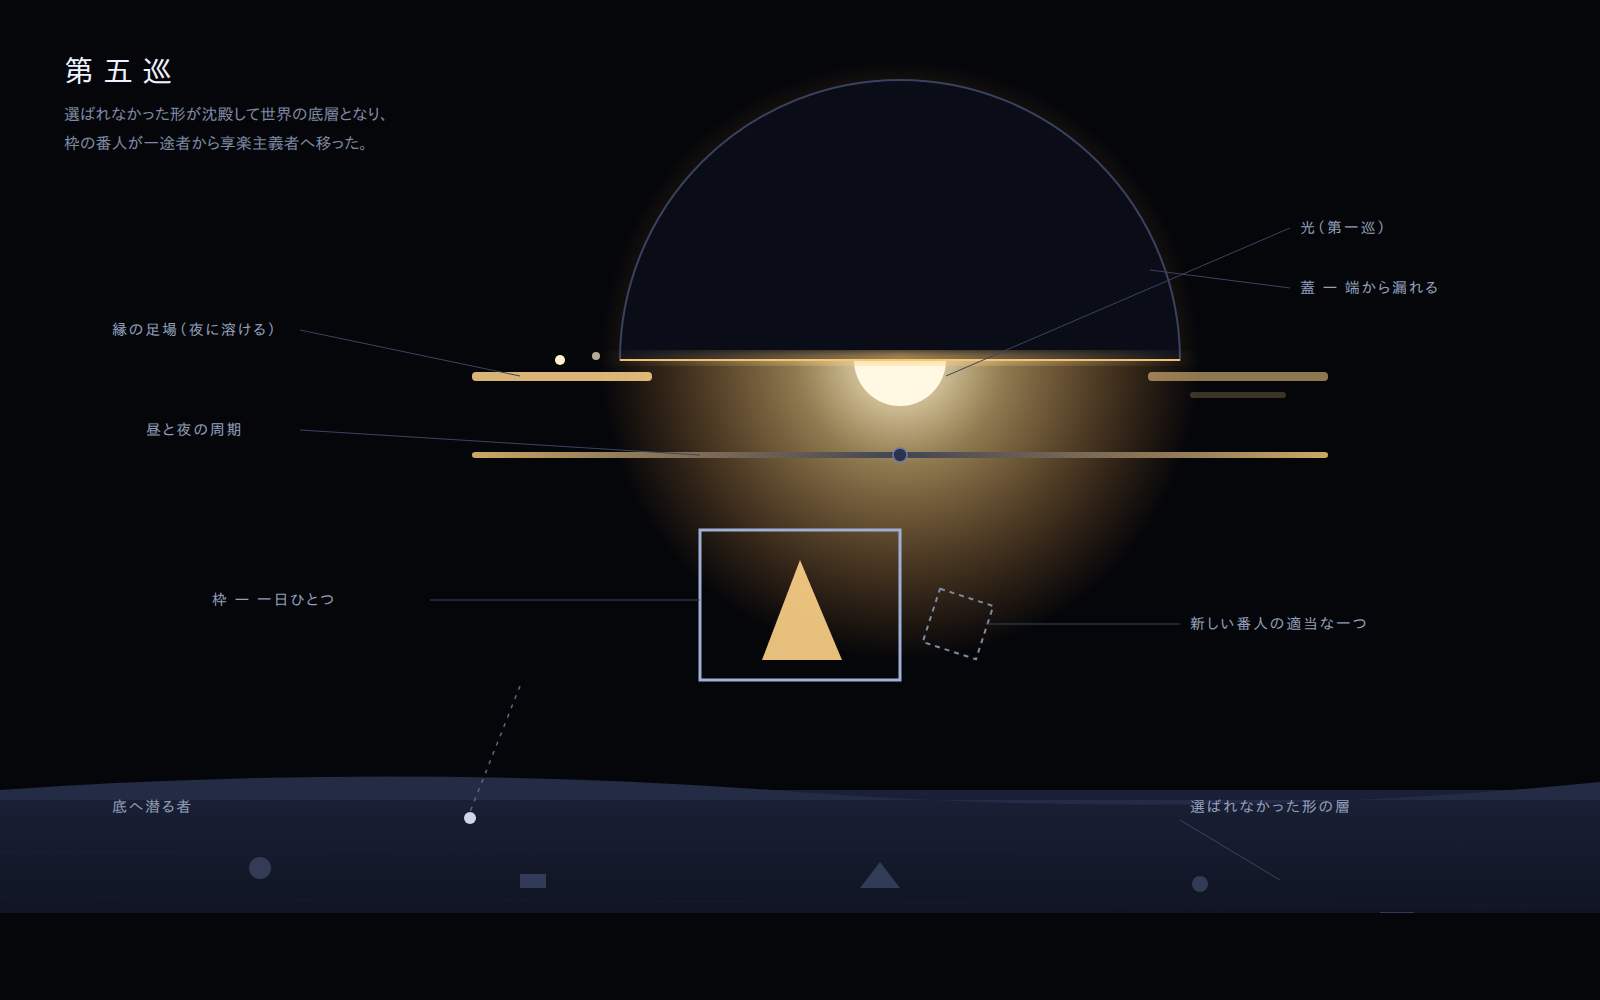
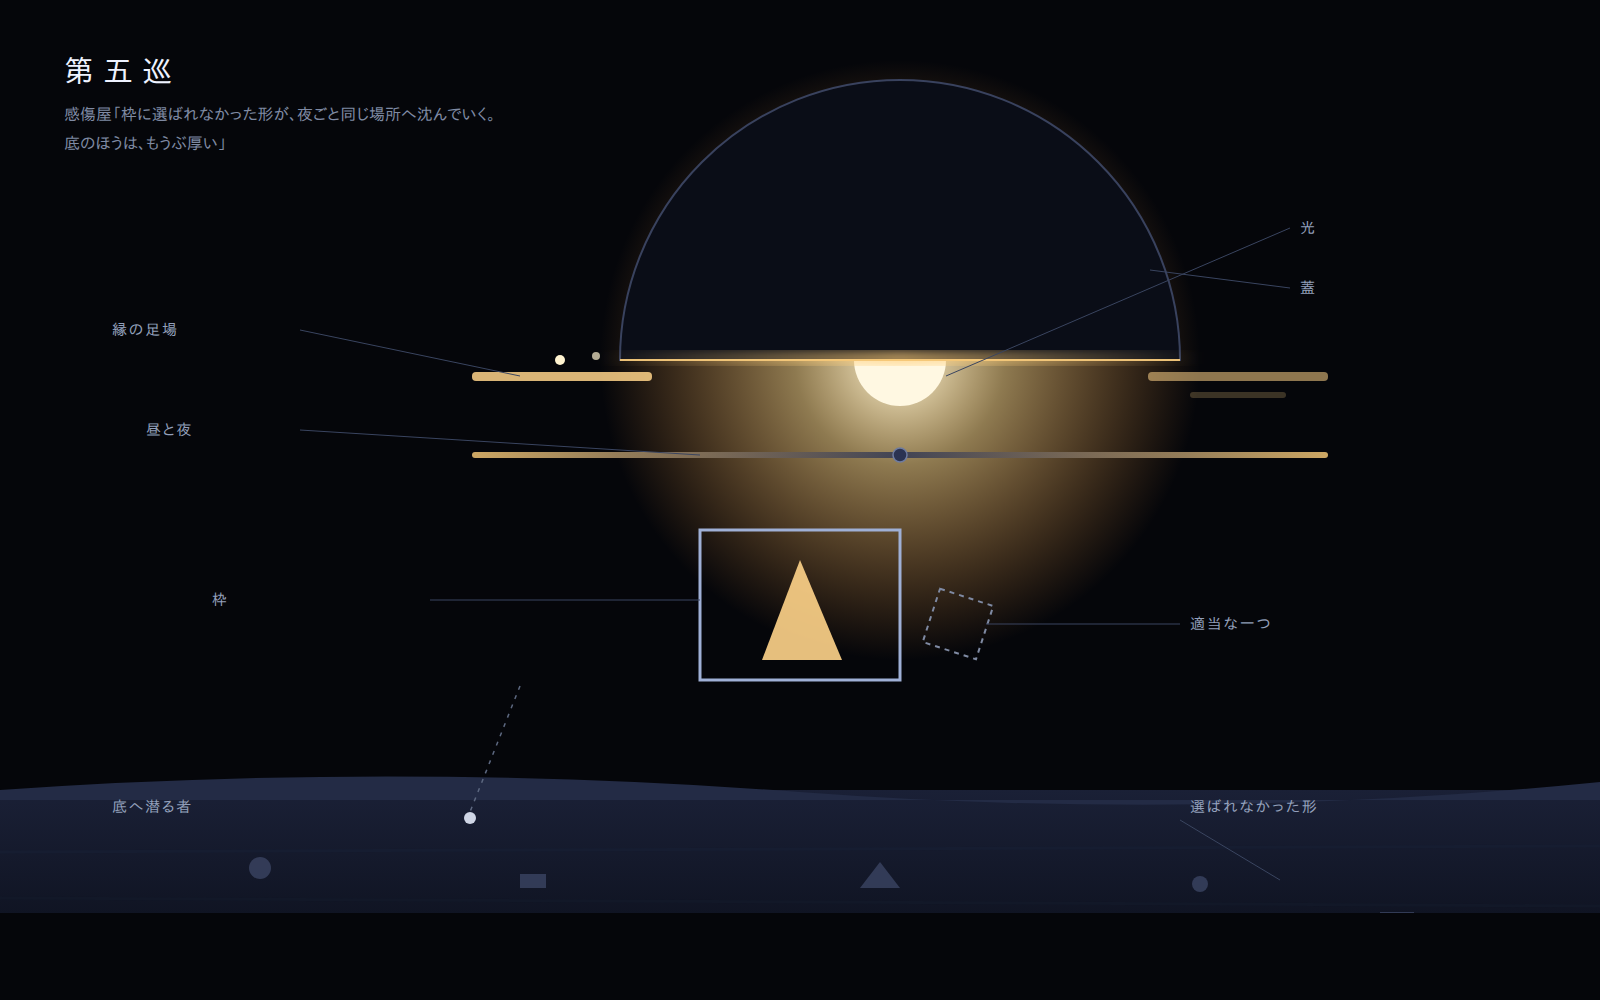
Remove the narrator voice from the log and the scenes
Strip the per-round summary line from every round file, key the index to a
quoted line from the seven instead, cut scene captions and labels back to
their own words, and record the rule in the README.

Claude-Session: https://claude.ai/code/session_01PXXKvF44mg2q7xGv59YMjL

diff --git a/world/scenes/round-007.html b/world/scenes/round-007.html
@@ -17,7 +17,7 @@
 
 <div class="caption">
   <h1>第七巡</h1>
-  <p>底を通った音が反響として戻りはじめ、<br>皿の上で一度だけ形になって崩れるようになった。</p>
+  <p>深読み屋「底を通った音は、<br>通った分だけ何かを連れてくる」</p>
 </div>
 
 <svg width="1600" height="1000" viewBox="0 0 1600 1000">
@@ -120,26 +120,26 @@
   <!-- 註 -->
   <g class="label">
     <line class="leader" x1="946" y1="376" x2="1290" y2="228"/>
-    <text x="1300" y="233">光（第一巡）</text>
+    <text x="1300" y="233">光</text>
     <line class="leader" x1="1150" y1="270" x2="1290" y2="288"/>
-    <text x="1300" y="293">蓋 ― 端から漏れる</text>
+    <text x="1300" y="293">蓋</text>
     <line class="leader" x1="520" y1="376" x2="300" y2="330"/>
-    <text x="112" y="335">縁の足場（夜に溶ける）</text>
+    <text x="112" y="335">縁の足場</text>
     <line class="leader" x1="700" y1="455" x2="300" y2="430"/>
-    <text x="146" y="435">昼と夜の周期</text>
+    <text x="146" y="435">昼と夜</text>
     <line class="leader" x1="700" y1="540" x2="430" y2="516"/>
-    <text x="212" y="512">枠 ― 一日ひとつ</text>
-    <text class="dim" x="436" y="546">三日続けて同じ石</text>
+    <text x="212" y="512">枠</text>
+    <text class="dim" x="436" y="546">同じ石</text>
     <line class="leader" x1="934" y1="596" x2="1180" y2="560"/>
-    <text x="1190" y="565">枠につけた耳</text>
+    <text x="1190" y="565">耳</text>
     <line class="leader" x1="778" y1="790" x2="452" y2="762"/>
-    <text x="196" y="766">底へ降りていく音</text>
+    <text x="196" y="766">音</text>
     <line class="leader" x1="1164" y1="700" x2="1236" y2="648"/>
-    <text x="1246" y="642">皿 ― 一度だけ立ち上がる形</text>
+    <text x="1246" y="642">皿</text>
     <line class="leader" x1="988" y1="872" x2="700" y2="906"/>
-    <text x="380" y="911">戻ってきた反響（遅れて、重い）</text>
+    <text x="380" y="911">反響</text>
     <line class="leader" x1="1280" y1="880" x2="1180" y2="820"/>
-    <text x="1190" y="812">選ばれなかった形の層</text>
-    <text class="dim" x="112" y="894">潜った者（返事はない）</text>
+    <text x="1190" y="812">選ばれなかった形</text>
+    <text class="dim" x="112" y="894">潜った者</text>
   </g>
 </svg>

diff --git a/world/scenes/round-006.html b/world/scenes/round-006.html
@@ -17,7 +17,7 @@
 
 <div class="caption">
   <h1>第六巡</h1>
-  <p>枠に耳がつき、選ばれた形の音が沈殿層の底まで届くようになった。<br>潜った者からの返事はまだない。</p>
+  <p>道具屋「……代わりに枠へ耳をつけとくよ。<br>入れた形の音が底まで届く」</p>
 </div>
 
 <svg width="1600" height="1000" viewBox="0 0 1600 1000">
@@ -103,22 +103,22 @@
   <!-- 註 -->
   <g class="label">
     <line class="leader" x1="946" y1="376" x2="1290" y2="228"/>
-    <text x="1300" y="233">光（第一巡）</text>
+    <text x="1300" y="233">光</text>
     <line class="leader" x1="1150" y1="270" x2="1290" y2="288"/>
-    <text x="1300" y="293">蓋 ― 端から漏れる</text>
+    <text x="1300" y="293">蓋</text>
     <line class="leader" x1="520" y1="376" x2="300" y2="330"/>
-    <text x="112" y="335">縁の足場（夜に溶ける）</text>
+    <text x="112" y="335">縁の足場</text>
     <line class="leader" x1="700" y1="455" x2="300" y2="430"/>
-    <text x="146" y="435">昼と夜の周期</text>
+    <text x="146" y="435">昼と夜</text>
     <line class="leader" x1="700" y1="540" x2="430" y2="516"/>
-    <text x="212" y="512">枠 ― 一日ひとつ</text>
-    <text class="dim" x="436" y="546">三日続けて同じ石</text>
+    <text x="212" y="512">枠</text>
+    <text class="dim" x="436" y="546">同じ石</text>
     <line class="leader" x1="934" y1="596" x2="1180" y2="560"/>
-    <text x="1190" y="565">枠につけた耳</text>
+    <text x="1190" y="565">耳</text>
     <line class="leader" x1="900" y1="772" x2="1180" y2="716"/>
-    <text x="1190" y="721">底へ降りていく音</text>
+    <text x="1190" y="721">音</text>
     <line class="leader" x1="1280" y1="880" x2="1180" y2="820"/>
-    <text x="1190" y="812">選ばれなかった形の層</text>
-    <text class="dim" x="112" y="894">潜った者（返事はない）</text>
+    <text x="1190" y="812">選ばれなかった形</text>
+    <text class="dim" x="112" y="894">潜った者</text>
   </g>
 </svg>

diff --git a/world/scenes/round-005.html b/world/scenes/round-005.html
@@ -17,7 +17,7 @@
 
 <div class="caption">
   <h1>第五巡</h1>
-  <p>選ばれなかった形が沈殿して世界の底層となり、<br>枠の番人が一途者から享楽主義者へ移った。</p>
+  <p>感傷屋「枠に選ばれなかった形が、夜ごと同じ場所へ沈んでいく。<br>底のほうは、もうぶ厚い」</p>
 </div>
 
 <svg width="1600" height="1000" viewBox="0 0 1600 1000">
@@ -89,19 +89,19 @@
   <!-- 註 -->
   <g class="label">
     <line class="leader" x1="946" y1="376" x2="1290" y2="228"/>
-    <text x="1300" y="233">光（第一巡）</text>
+    <text x="1300" y="233">光</text>
     <line class="leader" x1="1150" y1="270" x2="1290" y2="288"/>
-    <text x="1300" y="293">蓋 ― 端から漏れる</text>
+    <text x="1300" y="293">蓋</text>
     <line class="leader" x1="520" y1="376" x2="300" y2="330"/>
-    <text x="112" y="335">縁の足場（夜に溶ける）</text>
+    <text x="112" y="335">縁の足場</text>
     <line class="leader" x1="700" y1="455" x2="300" y2="430"/>
-    <text x="146" y="435">昼と夜の周期</text>
+    <text x="146" y="435">昼と夜</text>
     <line class="leader" x1="700" y1="600" x2="430" y2="600"/>
-    <text x="212" y="605">枠 ― 一日ひとつ</text>
+    <text x="212" y="605">枠</text>
     <line class="leader" x1="986" y1="624" x2="1180" y2="624"/>
-    <text x="1190" y="629">新しい番人の適当な一つ</text>
+    <text x="1190" y="629">適当な一つ</text>
     <line class="leader" x1="1280" y1="880" x2="1180" y2="820"/>
-    <text x="1190" y="812">選ばれなかった形の層</text>
+    <text x="1190" y="812">選ばれなかった形</text>
     <text class="dim" x="112" y="812">底へ潜る者</text>
   </g>
 </svg>

diff --git a/world/index.md b/world/index.md
@@ -1,13 +1,11 @@
 # 世界の年代記
 
-第五巡以降は、その時点の世界の様子を1枚の絵として `world/images/round-XXX.png` に残す（元データは `world/scenes/round-XXX.html`、書き出しは `tools/shot.sh`）。
-
-| 巡 | この巡の変化 |
+| 巡 | その巡の一行 |
 |---|---|
-| [第一巡](round-001.md) | 無に最初の光が灯り、それを覆いきれない蓋が同時に生まれた。 |
-| [第二巡](round-002.md) | 蓋の縁から漏れる光が固められて最初の足場となり、そこが住む場所と呼ばれはじめた。ただし暗がりでは溶ける。 |
-| [第三巡](round-003.md) | 足場が溶ける周期に昼と夜という名がつき、夜に沈んだものは二度と同じ形では戻らなくなった。 |
-| [第四巡](round-004.md) | 夜の前に一日ひとつだけ形を写す枠が生まれ、何を残すかという最初の選別が始まった。 |
-| [第五巡](round-005.md)<br>[絵](images/round-005.png) | 選ばれなかった形が沈殿して世界の底層となり、枠の番人が一途者から享楽主義者へ移った。 |
-| [第六巡](round-006.md)<br>[絵](images/round-006.png) | 枠に耳がつき、選ばれた形の音が沈殿層の底まで届くようになった。潜った者からの返事はまだない。 |
-| [第七巡](round-007.md)<br>[絵](images/round-007.png) | 底を通った音が反響として戻りはじめ、皿の上で一度だけ形になって崩れるようになった。 |
+| [第一巡](round-001.md) | **一途者**「光だ。まず光。それ以外ありえない」 |
+| [第二巡](round-002.md) | **一途者**「縁に住む。決めた。おれたちは縁の生き物だ」 |
+| [第三巡](round-003.md) | **一途者**「溶ける前を昼、溶けたあとを夜と呼ぶ。決めた。以上」 |
+| [第四巡](round-004.md) | **理想主義者**「選別を娯楽でやるな。何を残すかがこの世界の骨格になる」 |
+| [第五巡](round-005.md)<br>[絵](images/round-005.png) | **感傷屋**「枠に選ばれなかった形が、夜ごと同じ場所へ沈んでいく。底のほうは、もうぶ厚い」 |
+| [第六巡](round-006.md)<br>[絵](images/round-006.png) | **道具屋**「……代わりに枠へ耳をつけとくよ。入れた形の音が底まで届く」 |
+| [第七巡](round-007.md)<br>[絵](images/round-007.png) | **深読み屋**「底を通った音は、通った分だけ何かを連れてくる」 |

diff --git a/README.md b/README.md
@@ -37,12 +37,11 @@
   **一途者**「発言」
 
   ...
-
-  ---
-  *この巡の変化：一文で、中立的なナレーター視点の要約*
   ```
-- `world/index.md` に全ラウンドへのリンクと「この巡の変化」だけを時系列で並べた一覧を維持する（新しいラウンドを書いたら必ず追記すること）
-- 毎ラウンド、その時点の世界の様子を1枚の絵にする。`world/scenes/round-XXX.html`（黒地・図解的な俯瞰図。過去の巡で生まれた要素も残し、各要素に短い註をつける）を書き、`tools/shot.sh world/scenes/round-XXX.html world/images/round-XXX.png` で書き出してユーザーに渡す
+  ファイルに入るのは7人の発言だけ。要約・解説・ナレーションの行は書かない。
+- `world/index.md` に全ラウンドへのリンクと、その巡の発言から1行を引用した一覧を維持する（新しいラウンドを書いたら必ず追記すること）。引用は7人の言葉をそのまま使い、要約に言い換えない
+- 毎ラウンド、その時点の世界の様子を1枚の絵にする。`world/scenes/round-XXX.html`（黒地・図解的な俯瞰図。過去の巡で生まれた要素も残す）を書き、`tools/shot.sh world/scenes/round-XXX.html world/images/round-XXX.png` で書き出してユーザーに渡す
+- 絵に入れてよい文字は、7人が口にした語（蓋、縁、枠、皿…）による短い名札と、その巡の発言からの引用だけ。説明文を足さない
 
 ## 実行のトリガー
 
@@ -52,6 +51,6 @@
 3. `world/round-XXX.md`として保存
 4. `world/index.md`に追記
 5. その巡の世界の絵を`world/images/round-XXX.png`に書き出す
-6. 生成した内容と絵をそのままユーザーにも渡す
+6. 生成した内容と絵をそのままユーザーに渡す。感想・解説・次への誘導を添えない（作業上の報告が要るときだけ、世界の外の連絡として最小限に）
 
 ユーザーが特に指定しない限り、1回の指示につき1ラウンドのみ進める。

diff --git a/world/round-003.md b/world/round-003.md
@@ -9,6 +9,3 @@
 **感傷屋**「最初の夜に沈んだ足場の形は、もう誰も覚えていない。二度と同じ形には固まらないのにね」
 
 **理想主義者**「毎晩すべて溶けるなら、積み上げる行為に意味がない。この設計は美しくない。作り直せ」
-
----
-*この巡の変化：足場が溶ける周期に昼と夜という名がつき、夜に沈んだものは二度と同じ形では戻らなくなった。*

diff --git a/world/round-002.md b/world/round-002.md
@@ -9,6 +9,3 @@
 **理想主義者**「住む? まだ地面がない。足を置く場所を定義してから住め。順序が醜い」
 
 **道具屋**「じゃあ足場を出すよ。漏れた光を固めたやつ。踏めるけど、暗くなると溶ける」
-
----
-*この巡の変化：蓋の縁から漏れる光が固められて最初の足場となり、そこが住む場所と呼ばれはじめた。ただし暗がりでは溶ける。*

diff --git a/world/round-006.md b/world/round-006.md
@@ -9,6 +9,3 @@
 **感傷屋**「それ、潜っていったあの人を呼ぶつもりでしょう。届いたって、もう浮かんでは来られないのに」
 
 **皮肉屋**「道具屋の発明が初めて役に立ちそうなのが、行方不明者の捜索とはね」
-
----
-*この巡の変化：枠に耳がつき、選ばれた形の音が沈殿層の底まで届くようになった。潜った者からの返事はまだない。*

diff --git a/world/round-007.md b/world/round-007.md
@@ -9,6 +9,3 @@
 **感傷屋**「一度だけ立ち上がって崩れる。それ、思い出とまったく同じ仕組みじゃない」
 
 **理想主義者**「崩れるものを世界に数えるな。……いや。数えないなら、この世界には結局なにも残らないのか」
-
----
-*この巡の変化：底を通った音が反響として戻りはじめ、皿の上で一度だけ形になって崩れるようになった。*

diff --git a/world/round-001.md b/world/round-001.md
@@ -9,6 +9,3 @@
 **感傷屋**「……でも、もう無には戻れない。灯った瞬間に、何もなかった頃が懐かしくなってしまった」
 
 **道具屋**「じゃあ蓋を置いとくよ。光に被せて消せるやつ。完全には暗くならないけどね、端から漏れる」
-
----
-*この巡の変化：無に最初の光が灯り、それを覆いきれない蓋が同時に生まれた。*

diff --git a/world/round-004.md b/world/round-004.md
@@ -9,6 +9,3 @@
 **深読み屋**「残らなかった形のほうが圧倒的に多い。世界の本体は枠の外で溶けた側だよ」
 
 **一途者**「おれが毎晩、枠の番をする。決めた。誰にも触らせない」
-
----
-*この巡の変化：夜の前に一日ひとつだけ形を写す枠が生まれ、何を残すかという最初の選別が始まった。*

diff --git a/world/round-005.md b/world/round-005.md
@@ -9,6 +9,3 @@
 **一途者**「なら潜る。おれは底を見に行く。番は……誰か代われ」
 
 **享楽主義者**「はいはーい、俺やる。枠? その辺に落ちてるやつ適当に入れとくね」
-
----
-*この巡の変化：選ばれなかった形が沈殿して世界の底層となり、枠の番人が一途者から享楽主義者へ移った。*
